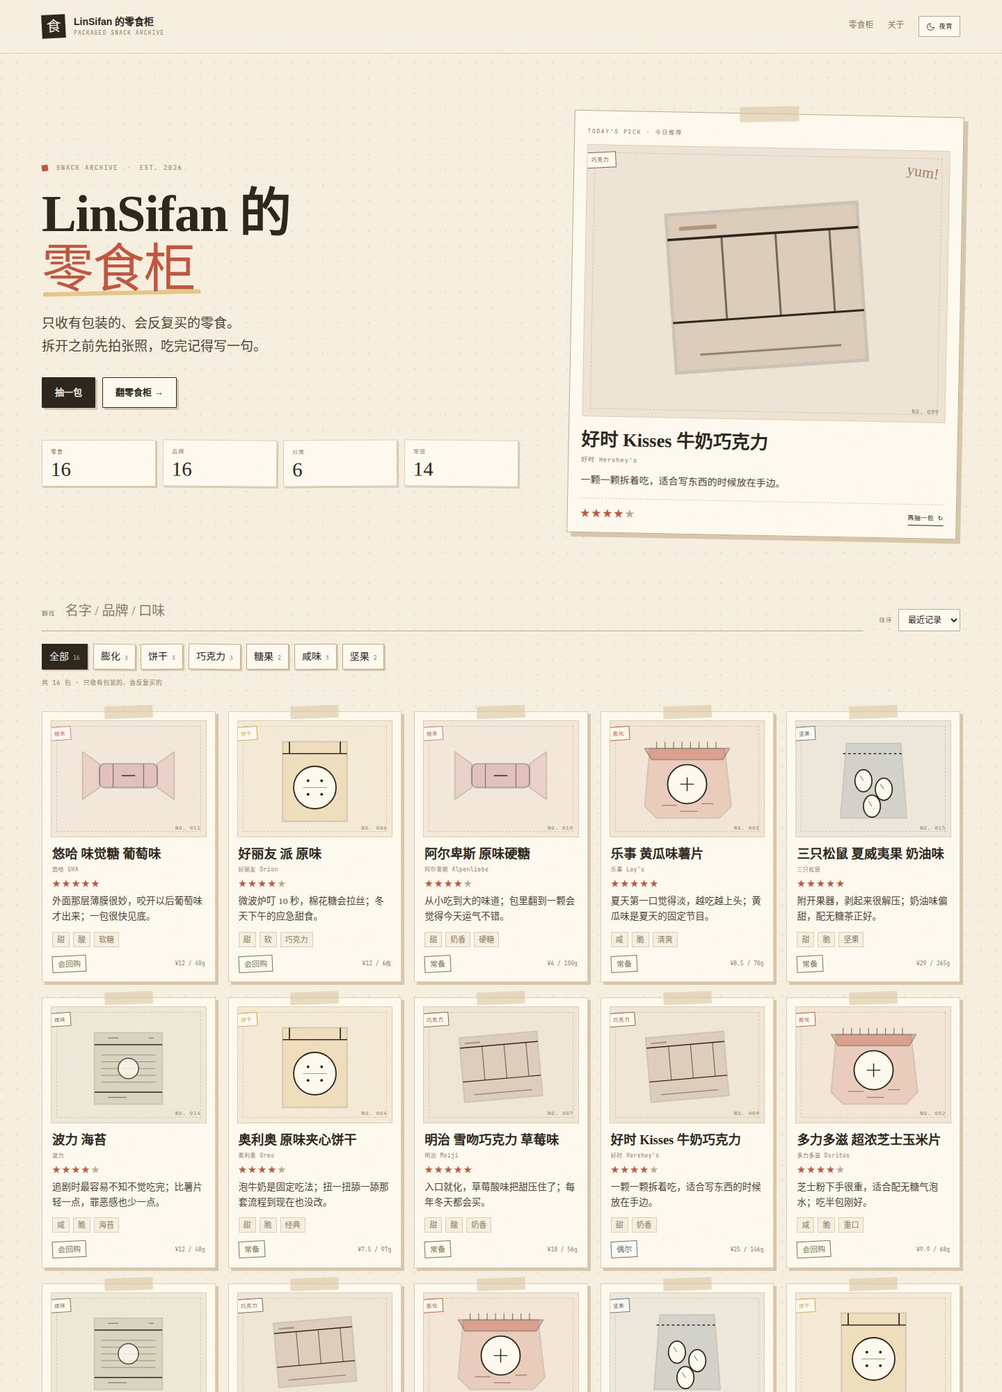
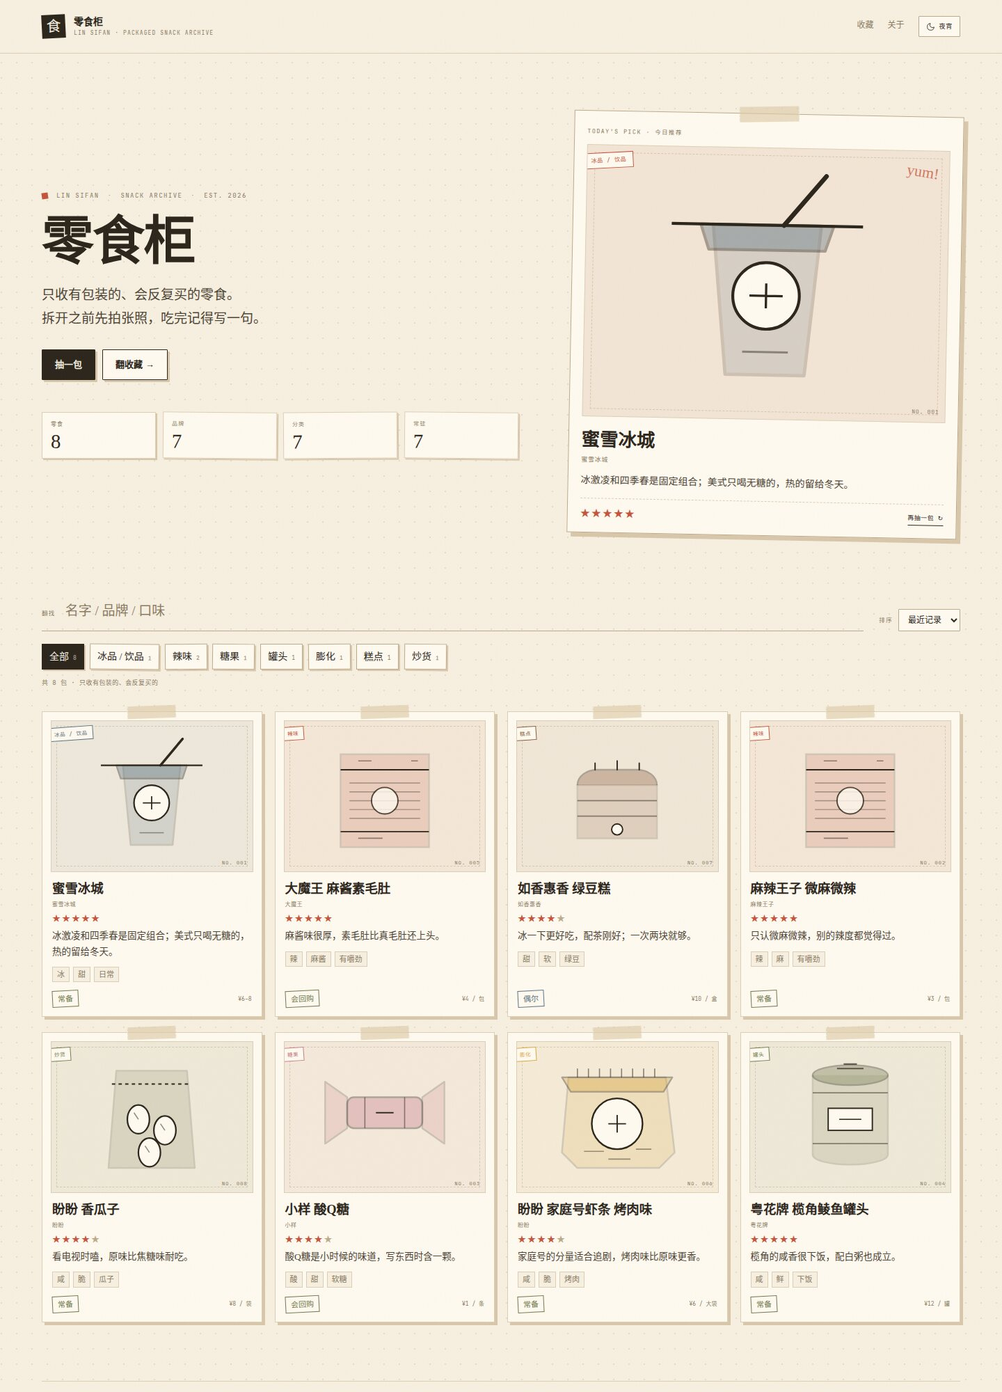
零食柜：换用真实清单并定名
- 站名定为「零食柜」，Lin Sifan 作为署名保留在品牌小字与页脚
- 8 样真实收藏：蜜雪冰城、麻辣王子、小样酸Q糖、粤花牌榄角鲮鱼罐头、大魔王麻酱素毛肚、盼盼虾条、如香惠香绿豆糕、盼盼香瓜子
- 新增冰品/饮品、辣味、罐头、糕点、炒货分类与饮品/罐头/糕点线稿
- 统计更新为 8 样 / 7 品牌 / 7 分类 / 7 常驻
- 重新生成 4 张预览图与 OG 分享卡片
- 资源版本更新到 20261122-4

diff --git a/js/data.js b/js/data.js
@@ -1,1 +1,1 @@
-window.SNACK_DATA = {"title":"LinSifan 的零食柜","subtitle":"有包装的、会反复买的","updated":"2026-11-22","categories":[{"name":"膨化","count":3},{"name":"饼干","count":3},{"name":"巧克力","count":3},{"name":"糖果","count":2},{"name":"咸味","count":3},{"name":"坚果","count":2}],"stats":{"snacks":16,"brands":16,"categories":6,"favorites":14},"snacks":[{"id":"001","name":"乐事 黄瓜味薯片","brand":"乐事 Lay's","category":"膨化","flavor":"清爽黄瓜","rating":5,"repurchase":"常备","price":"¥8.5 / 70g","place":"楼下便利店","date":"2026-03-12","tags":["咸","脆","清爽"],"note":"夏天第一口觉得淡，越吃越上头；黄瓜味是夏天的固定节目。","pack":"chips"},{"id":"002","name":"多力多滋 超浓芝士玉米片","brand":"多力多滋 Doritos","category":"膨化","flavor":"浓郁芝士","rating":4,"repurchase":"会回购","price":"¥9.9 / 68g","place":"超市进口区","date":"2026-01-08","tags":["咸","脆","重口"],"note":"芝士粉下手很重，适合配无糖气泡水；吃半包刚好。","pack":"chips"},{"id":"003","name":"卡乐比 薯条三兄弟","brand":"卡乐比 Calbee","category":"膨化","flavor":"海盐原味","rating":5,"repurchase":"常备","price":"¥28 / 90g","place":"代购","date":"2025-12-20","tags":["咸","脆","土豆"],"note":"独立小包很适合放包里，土豆味很干净，不油。","pack":"chips"},{"id":"004","name":"奥利奥 原味夹心饼干","brand":"奥利奥 Oreo","category":"饼干","flavor":"香草奶油","rating":4,"repurchase":"常备","price":"¥7.5 / 97g","place":"便利店","date":"2026-02-14","tags":["甜","脆","经典"],"note":"泡牛奶是固定吃法；扭一扭舔一舔那套流程到现在也没改。","pack":"biscuit"},{"id":"005","name":"白色恋人 白巧克力夹心饼干","brand":"石屋制果","category":"饼干","flavor":"白巧克力","rating":5,"repurchase":"偶尔","price":"¥68 / 12枚","place":"朋友带回","date":"2025-11-02","tags":["甜","酥","奶香"],"note":"薄脆的猫舌饼夹白巧，甜得很克制；适合配黑咖啡。","pack":"biscuit"},{"id":"006","name":"好丽友 派 原味","brand":"好丽友 Orion","category":"饼干","flavor":"巧克力棉花糖","rating":4,"repurchase":"会回购","price":"¥12 / 6枚","place":"超市","date":"2026-04-01","tags":["甜","软","巧克力"],"note":"微波炉叮 10 秒，棉花糖会拉丝；冬天下午的应急甜食。","pack":"biscuit"},{"id":"007","name":"明治 雪吻巧克力 草莓味","brand":"明治 Meiji","category":"巧克力","flavor":"草莓","rating":5,"repurchase":"常备","price":"¥18 / 56g","place":"进口超市","date":"2026-02-03","tags":["甜","酸","奶香"],"note":"入口就化，草莓酸味把甜压住了；每年冬天都会买。","pack":"chocolate"},{"id":"008","name":"费列罗 榛果威化巧克力","brand":"费列罗 Ferrero","category":"巧克力","flavor":"榛果","rating":5,"repurchase":"常备","price":"¥35 / 8粒","place":"超市","date":"2025-12-25","tags":["甜","脆","榛果"],"note":"过年桌上永远会出现的金色那盒；最喜欢中间那颗榛果。","pack":"chocolate"},{"id":"009","name":"好时 Kisses 牛奶巧克力","brand":"好时 Hershey's","category":"巧克力","flavor":"牛奶","rating":4,"repurchase":"偶尔","price":"¥25 / 146g","place":"网购","date":"2026-01-19","tags":["甜","奶香"],"note":"一颗一颗拆着吃，适合写东西的时候放在手边。","pack":"chocolate"},{"id":"010","name":"阿尔卑斯 原味硬糖","brand":"阿尔卑斯 Alpenliebe","category":"糖果","flavor":"原味奶香","rating":4,"repurchase":"常备","price":"¥6 / 100g","place":"小卖部","date":"2026-03-30","tags":["甜","奶香","硬糖"],"note":"从小吃到大的味道；包里翻到一颗会觉得今天运气不错。","pack":"candy"},{"id":"011","name":"悠哈 味觉糖 葡萄味","brand":"悠哈 UHA","category":"糖果","flavor":"葡萄","rating":5,"repurchase":"会回购","price":"¥12 / 40g","place":"便利店","date":"2026-04-10","tags":["甜","酸","软糖"],"note":"外面那层薄膜很妙，咬开以后葡萄味才出来；一包很快见底。","pack":"candy"},{"id":"012","name":"旺旺 仙贝","brand":"旺旺","category":"咸味","flavor":"酱油米香","rating":4,"repurchase":"常备","price":"¥9 / 84g","place":"超市","date":"2026-01-02","tags":["咸","脆","米香"],"note":"咸甜咸甜的，配茶刚好；小时候的零食到现在还是常备。","pack":"savory"},{"id":"013","name":"卫龙 大面筋 辣条","brand":"卫龙","category":"咸味","flavor":"香辣","rating":5,"repurchase":"常备","price":"¥5 / 65g","place":"小卖部","date":"2025-10-18","tags":["辣","咸","有嚼劲"],"note":"甜辣口，越嚼越香；明知道不健康但抽屉里总有一包。","pack":"savory"},{"id":"014","name":"波力 海苔","brand":"波力","category":"咸味","flavor":"原味","rating":4,"repurchase":"会回购","price":"¥12 / 48g","place":"超市","date":"2026-02-22","tags":["咸","脆","海苔"],"note":"追剧时最容易不知不觉吃完；比薯片轻一点，罪恶感也少一点。","pack":"savory"},{"id":"015","name":"三只松鼠 夏威夷果 奶油味","brand":"三只松鼠","category":"坚果","flavor":"奶油","rating":5,"repurchase":"常备","price":"¥29 / 265g","place":"网购","date":"2026-03-05","tags":["甜","脆","坚果"],"note":"附开果器，剥起来很解压；奶油味偏甜，配无糖茶正好。","pack":"nuts"},{"id":"016","name":"黄飞红 麻辣花生","brand":"黄飞红","category":"坚果","flavor":"麻辣","rating":5,"repurchase":"会回购","price":"¥9.9 / 210g","place":"超市","date":"2025-12-08","tags":["辣","咸","脆"],"note":"下酒神器，麻味比辣味更突出；吃到最后会忍不住舔手指。","pack":"nuts"}]};
+window.SNACK_DATA = {"title":"零食柜","subtitle":"有包装的、会反复买的","updated":"2026-11-22","categories":[{"name":"冰品 / 饮品","count":1},{"name":"辣味","count":2},{"name":"糖果","count":1},{"name":"罐头","count":1},{"name":"膨化","count":1},{"name":"糕点","count":1},{"name":"炒货","count":1}],"stats":{"snacks":8,"brands":7,"categories":7,"favorites":7},"snacks":[{"id":"001","name":"蜜雪冰城","brand":"蜜雪冰城","category":"冰品 / 饮品","flavor":"冰激凌 / 冰美式 / 热美式（无糖）/ 蜜桃四季春","rating":5,"repurchase":"常备","price":"¥6–8","place":"门店","date":"2026-04-18","tags":["冰","甜","日常"],"note":"冰激凌和四季春是固定组合；美式只喝无糖的，热的留给冬天。","pack":"drink"},{"id":"002","name":"麻辣王子 微麻微辣","brand":"麻辣王子","category":"辣味","flavor":"微麻微辣","rating":5,"repurchase":"常备","price":"¥3 / 包","place":"小卖部","date":"2026-03-08","tags":["辣","麻","有嚼劲"],"note":"只认微麻微辣，别的辣度都觉得过。","pack":"savory"},{"id":"003","name":"小样 酸Q糖","brand":"小样","category":"糖果","flavor":"酸甜","rating":4,"repurchase":"会回购","price":"¥1 / 条","place":"超市","date":"2026-02-11","tags":["酸","甜","软糖"],"note":"酸Q糖是小时候的味道，写东西时含一颗。","pack":"candy"},{"id":"004","name":"粤花牌 榄角鲮鱼罐头","brand":"粤花牌","category":"罐头","flavor":"榄角 / 鲮鱼","rating":5,"repurchase":"常备","price":"¥12 / 罐","place":"超市","date":"2025-12-30","tags":["咸","鲜","下饭"],"note":"榄角的咸香很下饭，配白粥也成立。","pack":"can"},{"id":"005","name":"大魔王 麻酱素毛肚","brand":"大魔王","category":"辣味","flavor":"麻酱","rating":5,"repurchase":"会回购","price":"¥4 / 包","place":"便利店","date":"2026-04-02","tags":["辣","麻酱","有嚼劲"],"note":"麻酱味很厚，素毛肚比真毛肚还上头。","pack":"savory"},{"id":"006","name":"盼盼 家庭号虾条 烤肉味","brand":"盼盼","category":"膨化","flavor":"烤肉味","rating":4,"repurchase":"常备","price":"¥6 / 大袋","place":"超市","date":"2026-01-15","tags":["咸","脆","烤肉"],"note":"家庭号的分量适合追剧，烤肉味比原味更香。","pack":"chips"},{"id":"007","name":"如香惠香 绿豆糕","brand":"如香惠香","category":"糕点","flavor":"绿豆","rating":4,"repurchase":"偶尔","price":"¥10 / 盒","place":"超市","date":"2026-03-21","tags":["甜","软","绿豆"],"note":"冰一下更好吃，配茶刚好；一次两块就够。","pack":"cake"},{"id":"008","name":"盼盼 香瓜子","brand":"盼盼","category":"炒货","flavor":"原味","rating":4,"repurchase":"常备","price":"¥8 / 袋","place":"超市","date":"2026-02-27","tags":["咸","脆","瓜子"],"note":"看电视时嗑，原味比焦糖味耐吃。","pack":"nuts"}]};

diff --git a/index.html b/index.html
@@ -4,9 +4,9 @@
   <meta charset="UTF-8">
   <meta name="viewport" content="width=device-width, initial-scale=1.0, viewport-fit=cover">
   <meta name="color-scheme" content="light dark">
-  <meta name="description" content="LinSifan 的零食柜 · 只收有包装的、会反复买的零食。">
+  <meta name="description" content="零食柜 · Lin Sifan 的包装零食档案。只收有包装的、会反复买的零食。">
   <meta name="theme-color" content="#f7f0e1">
-  <meta property="og:title" content="LinSifan 的零食柜 · 包装零食档案">
+  <meta property="og:title" content="零食柜 · Lin Sifan 的包装零食档案">
   <meta property="og:description" content="只收有包装的、会反复买的零食。">
   <meta property="og:type" content="website">
   <meta property="og:url" content="https://tuxlin123233.github.io/my-food-list/">
@@ -14,19 +14,19 @@
   <meta property="og:image:width" content="1200">
   <meta property="og:image:height" content="630">
   <meta name="twitter:card" content="summary_large_image">
-  <title>LinSifan 的零食柜 · 包装零食档案</title>
+  <title>零食柜 · Lin Sifan 的包装零食档案</title>
   <link rel="icon" href="favicon.svg" type="image/svg+xml">
-  <link rel="stylesheet" href="css/style.css?v=20261122-1">
+  <link rel="stylesheet" href="css/style.css?v=20261122-4">
 </head>
 <body>
   <header class="site-head">
     <div class="shell head-inner">
       <a class="brand" href="./" aria-label="零食柜首页">
         <span class="brand-mark" aria-hidden="true">食</span>
-        <span class="brand-text">LinSifan 的零食柜<small>PACKAGED SNACK ARCHIVE</small></span>
+        <span class="brand-text">零食柜<small>LIN SIFAN · PACKAGED SNACK ARCHIVE</small></span>
       </a>
       <nav class="head-nav" aria-label="页面导航">
-        <a href="#shelf">零食柜</a>
+        <a href="#shelf">收藏</a>
         <a href="#about">关于</a>
         <button class="theme-btn" id="theme-toggle" type="button" aria-label="切换到夜宵主题">
           <svg class="icon-moon" viewBox="0 0 24 24" aria-hidden="true"><path d="M21 12.8A9 9 0 1 1 11.2 3a7 7 0 0 0 9.8 9.8Z"/></svg>
@@ -40,18 +40,18 @@
   <main>
     <section class="hero shell">
       <div class="hero__copy">
-        <p class="kicker"><span>SNACK ARCHIVE</span><span>EST. 2026</span></p>
-        <h1 class="hero__title">LinSifan 的<span>零食柜</span></h1>
+        <p class="kicker"><span>LIN SIFAN</span><span>SNACK ARCHIVE</span><span>EST. 2026</span></p>
+        <h1 class="hero__title">零食柜</h1>
         <p class="hero__lede">只收有包装的、会反复买的零食。<br>拆开之前先拍张照，吃完记得写一句。</p>
         <div class="hero__actions">
           <button class="btn btn--solid" id="random" type="button">抽一包</button>
-          <a class="btn btn--line" href="#shelf">翻零食柜 →</a>
+          <a class="btn btn--line" href="#shelf">翻收藏 →</a>
         </div>
         <dl class="stats" aria-label="零食柜统计">
-          <div class="stat"><dt>零食</dt><dd data-count="16" data-stat="snacks">0</dd></div>
-          <div class="stat"><dt>品牌</dt><dd data-count="16" data-stat="brands">0</dd></div>
-          <div class="stat"><dt>分类</dt><dd data-count="6" data-stat="categories">0</dd></div>
-          <div class="stat"><dt>常驻</dt><dd data-count="14" data-stat="favorites">0</dd></div>
+          <div class="stat"><dt>零食</dt><dd data-count="8" data-stat="snacks">0</dd></div>
+          <div class="stat"><dt>品牌</dt><dd data-count="7" data-stat="brands">0</dd></div>
+          <div class="stat"><dt>分类</dt><dd data-count="7" data-stat="categories">0</dd></div>
+          <div class="stat"><dt>常驻</dt><dd data-count="7" data-stat="favorites">0</dd></div>
         </dl>
       </div>
 
@@ -113,9 +113,9 @@
         <h2 id="about-title">关于这个零食柜</h2>
       </div>
       <div class="about__body" data-reveal>
-        <p>只收有包装的零食：薯片、饼干、巧克力、糖、坚果、海苔和肉脯。不是餐厅，也不是自己做的菜，是那些能在货架上找到、拆开就能吃的东西。</p>
+        <p>只收有包装的零食，以及罐装、杯装的东西：冰品、辣味、糖果、罐头、膨化、糕点、炒货。不是餐厅，也不是自己做的菜，是能在店里或货架上固定买到、拆开就能吃的东西。</p>
         <p>每条会记品牌、口味、价格、在哪买的、第一次记下的日期，还有一句当时吃完的想法。回购那一栏比评分更诚实。</p>
-        <p>这一柜先摆了 16 包，之后慢慢补。</p>
+        <p>先收了这 8 样，之后慢慢补。</p>
       </div>
       <dl class="about__credits" data-reveal>
         <div><dt>UPDATED</dt><dd id="updated">2026.11.22</dd></div>
@@ -128,9 +128,9 @@
 
   <footer class="footer">
     <div class="shell">
-      <p class="footer__line">LinSifan · 零食柜</p>
+      <p class="footer__line">Lin Sifan · 零食柜</p>
       <div class="footer__grid">
-        <p>有包装的、会反复买的。<br>一柜一柜慢慢收。</p>
+        <p>有包装的、会反复买的。<br>一样一样慢慢收。</p>
         <p class="footer__links">
           <a href="https://tuxlin123233.github.io/my-play-list/" target="_blank" rel="noopener">私人唱片档案</a>
           <a href="https://github.com/TuxLin123233" target="_blank" rel="noopener">GitHub</a>
@@ -173,7 +173,7 @@
 
   <div class="toast" id="toast" role="status" aria-live="polite"></div>
 
-  <script src="js/data.js?v=20261122-1"></script>
-  <script src="js/app.js?v=20261122-1"></script>
+  <script src="js/data.js?v=20261122-4"></script>
+  <script src="js/app.js?v=20261122-4"></script>
 </body>
 </html>

diff --git a/css/style.css b/css/style.css
@@ -348,12 +348,13 @@ html[data-theme="dark"] .theme-btn .icon-sun { display: block; }
 .snack-card__price { font-family: var(--font-mono); font-size: 8px; color: var(--muted); }
 
 /* 分类色 */
-.snack-card[data-category="膨化"], .today[data-category="膨化"], .snack-dialog__art[data-category="膨化"] { --cat: var(--tomato); }
-.snack-card[data-category="饼干"], .today[data-category="饼干"], .snack-dialog__art[data-category="饼干"] { --cat: var(--mustard); }
-.snack-card[data-category="巧克力"], .today[data-category="巧克力"], .snack-dialog__art[data-category="巧克力"] { --cat: var(--brown); }
+.snack-card[data-category="冰品 / 饮品"], .today[data-category="冰品 / 饮品"], .snack-dialog__art[data-category="冰品 / 饮品"] { --cat: var(--blue); }
+.snack-card[data-category="辣味"], .today[data-category="辣味"], .snack-dialog__art[data-category="辣味"] { --cat: var(--tomato); }
 .snack-card[data-category="糖果"], .today[data-category="糖果"], .snack-dialog__art[data-category="糖果"] { --cat: var(--pink); }
-.snack-card[data-category="咸味"], .today[data-category="咸味"], .snack-dialog__art[data-category="咸味"] { --cat: var(--olive); }
-.snack-card[data-category="坚果"], .today[data-category="坚果"], .snack-dialog__art[data-category="坚果"] { --cat: var(--blue); }
+.snack-card[data-category="罐头"], .today[data-category="罐头"], .snack-dialog__art[data-category="罐头"] { --cat: var(--olive); }
+.snack-card[data-category="膨化"], .today[data-category="膨化"], .snack-dialog__art[data-category="膨化"] { --cat: var(--mustard); }
+.snack-card[data-category="糕点"], .today[data-category="糕点"], .snack-dialog__art[data-category="糕点"] { --cat: var(--brown); }
+.snack-card[data-category="炒货"], .today[data-category="炒货"], .snack-dialog__art[data-category="炒货"] { --cat: var(--olive); }
 
 .empty { border: 1px dashed var(--line-strong); background: var(--card); padding: clamp(44px, 7vw, 76px) 24px; text-align: center; box-shadow: 4px 4px 0 var(--shadow); }
 .empty__icon { display: block; font-family: var(--font-mono); font-size: 30px; color: var(--line-strong); }
@@ -494,12 +495,12 @@ html[data-theme="dark"] .theme-btn .icon-sun { display: block; }
 @media (min-width: 1440px) {
   .shell { width: min(1320px, calc(100% - 96px)); }
   .head-inner { min-height: 76px; }
-  .grid { grid-template-columns: repeat(5, minmax(0, 1fr)); }
+  .grid { grid-template-columns: repeat(4, minmax(0, 1fr)); }
   .hero__title { font-size: clamp(3.1rem, 5.2vw, 5.2rem); }
 }
 @media (min-width: 2200px) {
   .shell { width: min(1640px, calc(100% - 120px)); }
-  .grid { grid-template-columns: repeat(6, minmax(0, 1fr)); }
+  .grid { grid-template-columns: repeat(5, minmax(0, 1fr)); }
 }
 
 /* ---------- Responsive ---------- */

diff --git a/js/app.js b/js/app.js
@@ -145,6 +145,33 @@
         <ellipse cx="78" cy="102" rx="10" ry="13" fill="var(--card)" stroke="currentColor" stroke-width="1.4"/>
         <path d="M64 66l4 6M88 76l4 6M74 96l4 6" stroke="currentColor" stroke-width="1" opacity=".5"/>
       </svg>`,
+    drink: `
+      <svg viewBox="0 0 160 140" aria-hidden="true">
+        <path d="M54 42h52l-7 72H61Z" fill="var(--cat)" opacity=".18" stroke="currentColor" stroke-width="1.6" stroke-linejoin="round"/>
+        <path d="M48 42h64l-4 12H52Z" fill="var(--cat)" opacity=".38" stroke="currentColor" stroke-width="1.4" stroke-linejoin="round"/>
+        <path d="M34 42h92" stroke="currentColor" stroke-width="1.4"/>
+        <path d="M88 42 108 18" stroke="currentColor" stroke-width="2.2" stroke-linecap="round"/>
+        <circle cx="80" cy="76" r="16" fill="var(--card)" stroke="currentColor" stroke-width="1.4"/>
+        <path d="M72 76h16M80 70v12" stroke="currentColor" stroke-width="1.1"/>
+        <path d="M69 103h22" stroke="currentColor" stroke-width="1" opacity=".45"/>
+      </svg>`,
+    can: `
+      <svg viewBox="0 0 160 140" aria-hidden="true">
+        <ellipse cx="80" cy="32" rx="34" ry="9" fill="var(--cat)" opacity=".35" stroke="currentColor" stroke-width="1.5"/>
+        <path d="M46 32v72c0 5 15 9 34 9s34-4 34-9V32" fill="var(--cat)" opacity=".16" stroke="currentColor" stroke-width="1.6"/>
+        <path d="M46 48h68M46 94h68" stroke="currentColor" stroke-width="1" opacity=".5"/>
+        <path d="M68 26h24M74 22h12" stroke="currentColor" stroke-width="1.4" opacity=".7"/>
+        <rect x="60" y="62" width="40" height="20" fill="var(--card)" stroke="currentColor" stroke-width="1.2"/>
+        <path d="M70 72h20" stroke="currentColor" stroke-width="1"/>
+      </svg>`,
+    cake: `
+      <svg viewBox="0 0 160 140" aria-hidden="true">
+        <path d="M44 60h72v48H44Z" fill="var(--cat)" opacity=".16" stroke="currentColor" stroke-width="1.6"/>
+        <path d="M44 60c0-8 8-14 18-14h36c10 0 18 6 18 14" fill="var(--cat)" opacity=".35" stroke="currentColor" stroke-width="1.5"/>
+        <path d="M44 74h72M44 88h72" stroke="currentColor" stroke-width="1" opacity=".5"/>
+        <path d="M60 46v-6M80 46v-8M100 46v-6" stroke="currentColor" stroke-width="1.2" stroke-linecap="round"/>
+        <circle cx="80" cy="100" r="5" fill="var(--card)" stroke="currentColor" stroke-width="1.2"/>
+      </svg>`,
     savory: `
       <svg viewBox="0 0 160 140" aria-hidden="true">
         <rect x="40" y="32" width="80" height="84" fill="var(--cat)" opacity=".17" stroke="currentColor" stroke-width="1.6"/>

diff --git a/tools/build_site_data.py b/tools/build_site_data.py
@@ -9,7 +9,7 @@ ROOT = Path(__file__).resolve().parent.parent
 CSV_PATH = ROOT / "data" / "snacks.csv"
 OUT_PATH = ROOT / "js" / "data.js"
 
-CATEGORY_ORDER = ["膨化", "饼干", "巧克力", "糖果", "咸味", "坚果"]
+CATEGORY_ORDER = ["冰品 / 饮品", "辣味", "糖果", "罐头", "膨化", "糕点", "炒货"]
 FAVORITE = {"常备", "会回购"}
 
 
@@ -37,7 +37,7 @@ def main():
     brands = {snack["brand"] for snack in snacks if snack["brand"]}
     favorites = sum(1 for snack in snacks if snack["repurchase"] in FAVORITE)
     data = {
-        "title": "LinSifan 的零食柜",
+        "title": "零食柜",
         "subtitle": "有包装的、会反复买的",
         "updated": date.today().isoformat(),
         "categories": categories,

diff --git a/README.md b/README.md
@@ -1,10 +1,10 @@
-# LinSifan 的零食柜
+# 零食柜
 
-> 只收有包装的、会反复买的零食。
+> Lin Sifan 的包装零食档案 · 只收有包装的、会反复买的零食。
 
 ![GitHub Pages](https://img.shields.io/badge/GitHub%20Pages-online-c5533b?style=flat-square)
-![Snacks](https://img.shields.io/badge/snacks-16-2b241a?style=flat-square)
-![Categories](https://img.shields.io/badge/categories-6-2b241a?style=flat-square)
+![Snacks](https://img.shields.io/badge/snacks-8-2b241a?style=flat-square)
+![Categories](https://img.shields.io/badge/categories-7-2b241a?style=flat-square)
 ![Vanilla JS](https://img.shields.io/badge/vanilla-JS-2b241a?style=flat-square)
 
 **在线访问：<https://tuxlin123233.github.io/my-food-list/>**
@@ -15,15 +15,24 @@
 
 ## 关于
 
-一个只收集**有包装零食**的个人档案：薯片、饼干、巧克力、糖果、坚果、海苔和肉脯。不收录餐厅，也不收录自己做的菜。
+一个只收集**有包装零食**的个人档案：冰品和饮品、辣味、糖果、罐头、膨化、糕点、炒货。不收录餐厅，也不收录自己做的菜。
+
+目前收了 8 样：
+
+- 蜜雪冰城（冰激凌、冰/热美式、无糖、蜜桃四季春）
+- 麻辣王子 · 微麻微辣
+- 小样酸Q糖
+- 粤花牌榄角鲮鱼罐头
+- 大魔王麻酱素毛肚
+- 盼盼家庭号虾条 · 烤肉味
+- 如香惠香绿豆糕
+- 盼盼香瓜子
 
 每条记录包含品牌、口味、价格、购买地、首次记录的日期，以及一句当时吃完的想法。回购那一栏比评分更诚实。
 
-当前先放了 **16 条示例数据**，搭好分类、搜索、随机和详情；之后替换 `data/snacks.csv` 并重新构建，就会变成你自己的零食柜。
-
 ## 功能
 
-- 16 条示例零食，6 个分类
+- 8 样零食，7 个分类
 - 搜索名字 / 品牌 / 口味 / 笔记
 - 分类筛选、按最近记录 / 评分 / 名字 / 分类排序
 - 「抽一包」随机推荐，今日推荐卡片可点开详情
@@ -62,7 +71,7 @@ CSV 字段：
 | `id` | 编号，比如 `001` |
 | `name` | 零食名 |
 | `brand` | 品牌 |
-| `category` | 分类：膨化 / 饼干 / 巧克力 / 糖果 / 咸味 / 坚果 |
+| `category` | 分类：冰品 / 饮品、辣味、糖果、罐头、膨化、糕点、炒货 |
 | `flavor` | 口味 |
 | `rating` | 1–5 分 |
 | `repurchase` | 常备 / 会回购 / 偶尔 / 囤过 |
@@ -70,8 +79,10 @@ CSV 字段：
 | `place` | 购买地 |
 | `date` | 首次记录日期 `YYYY-MM-DD` |
 | `tags` | 标签，用 `\|` 分隔 |
-| `note` | 一句听感 / 吃后感 |
-| `pack` | 包装线稿类型：`chips` / `biscuit` / `chocolate` / `candy` / `nuts` / `savory` |
+| `note` | 一句吃后感 |
+| `pack` | 包装线稿：`drink` / `can` / `cake` / `chips` / `biscuit` / `chocolate` / `candy` / `nuts` / `savory` |
+
+新增分类时，把分类名加进 `tools/build_site_data.py` 的 `CATEGORY_ORDER`，并在 `css/style.css` 的分类色里补一条。
 
 ## 本地预览
 
@@ -90,4 +101,4 @@ python3 -m http.server 8000
 
 ## 说明
 
-当前为框架阶段的示例数据，替换 CSV 后即可变成真实收藏。包装线稿是通用插画，不代表具体产品包装。
+包装线稿是通用插画，不代表具体产品包装；价格和购买地会随时间和门店变化，仅作记录。
